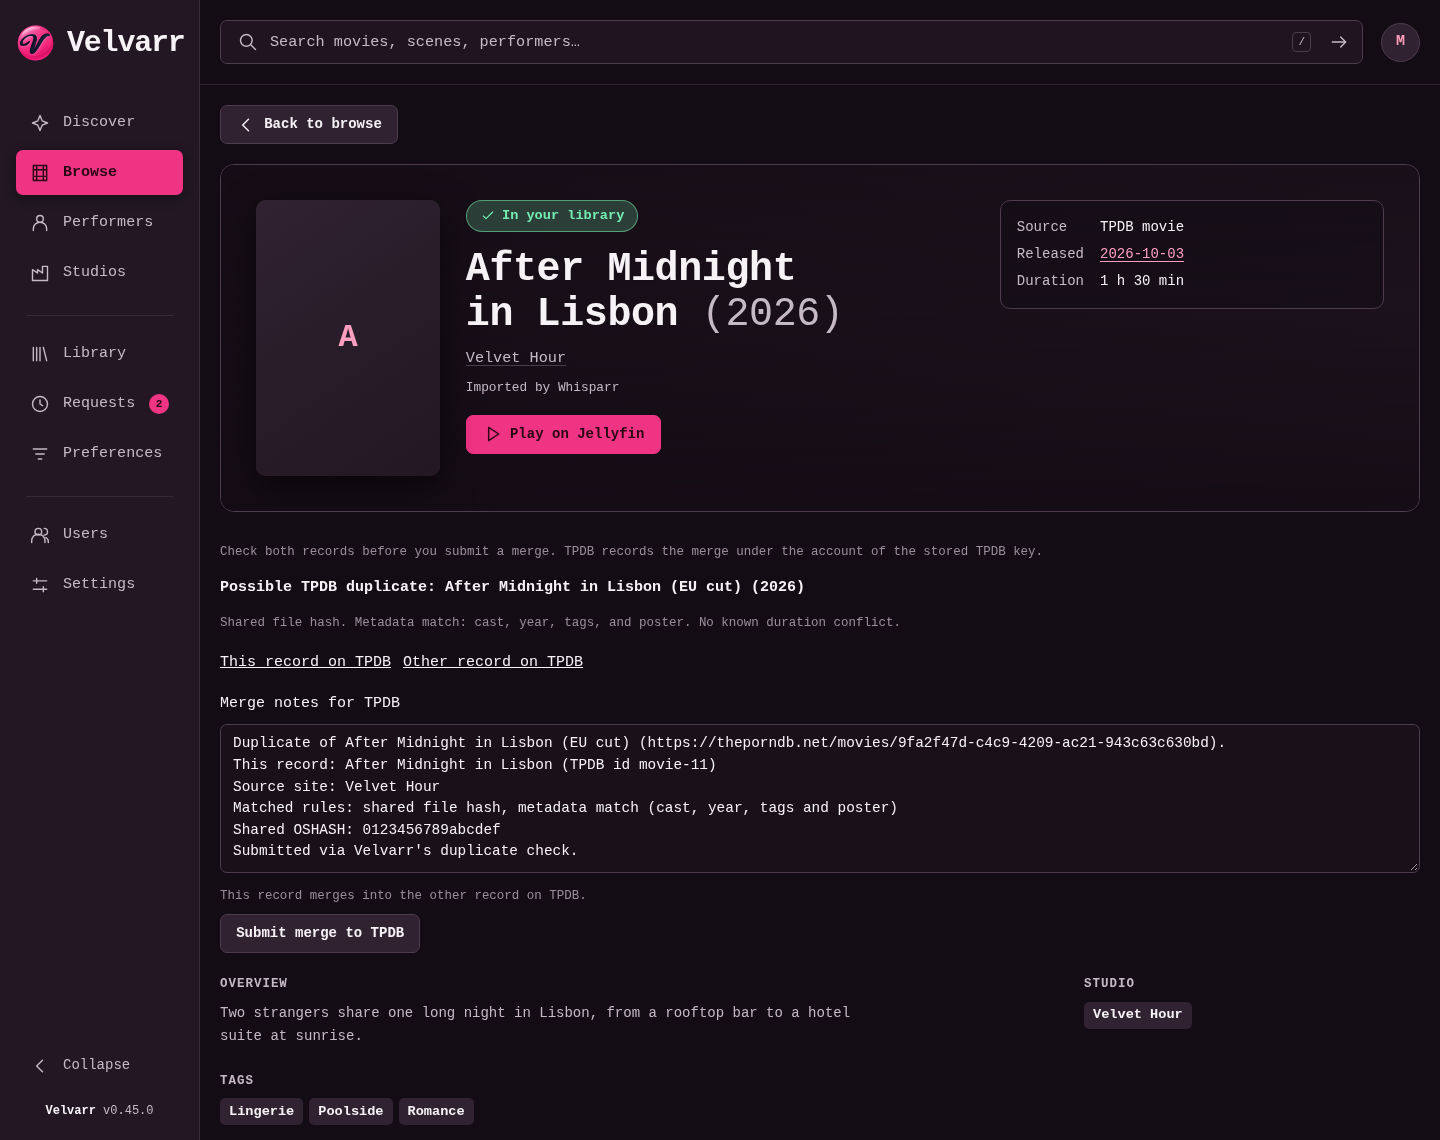
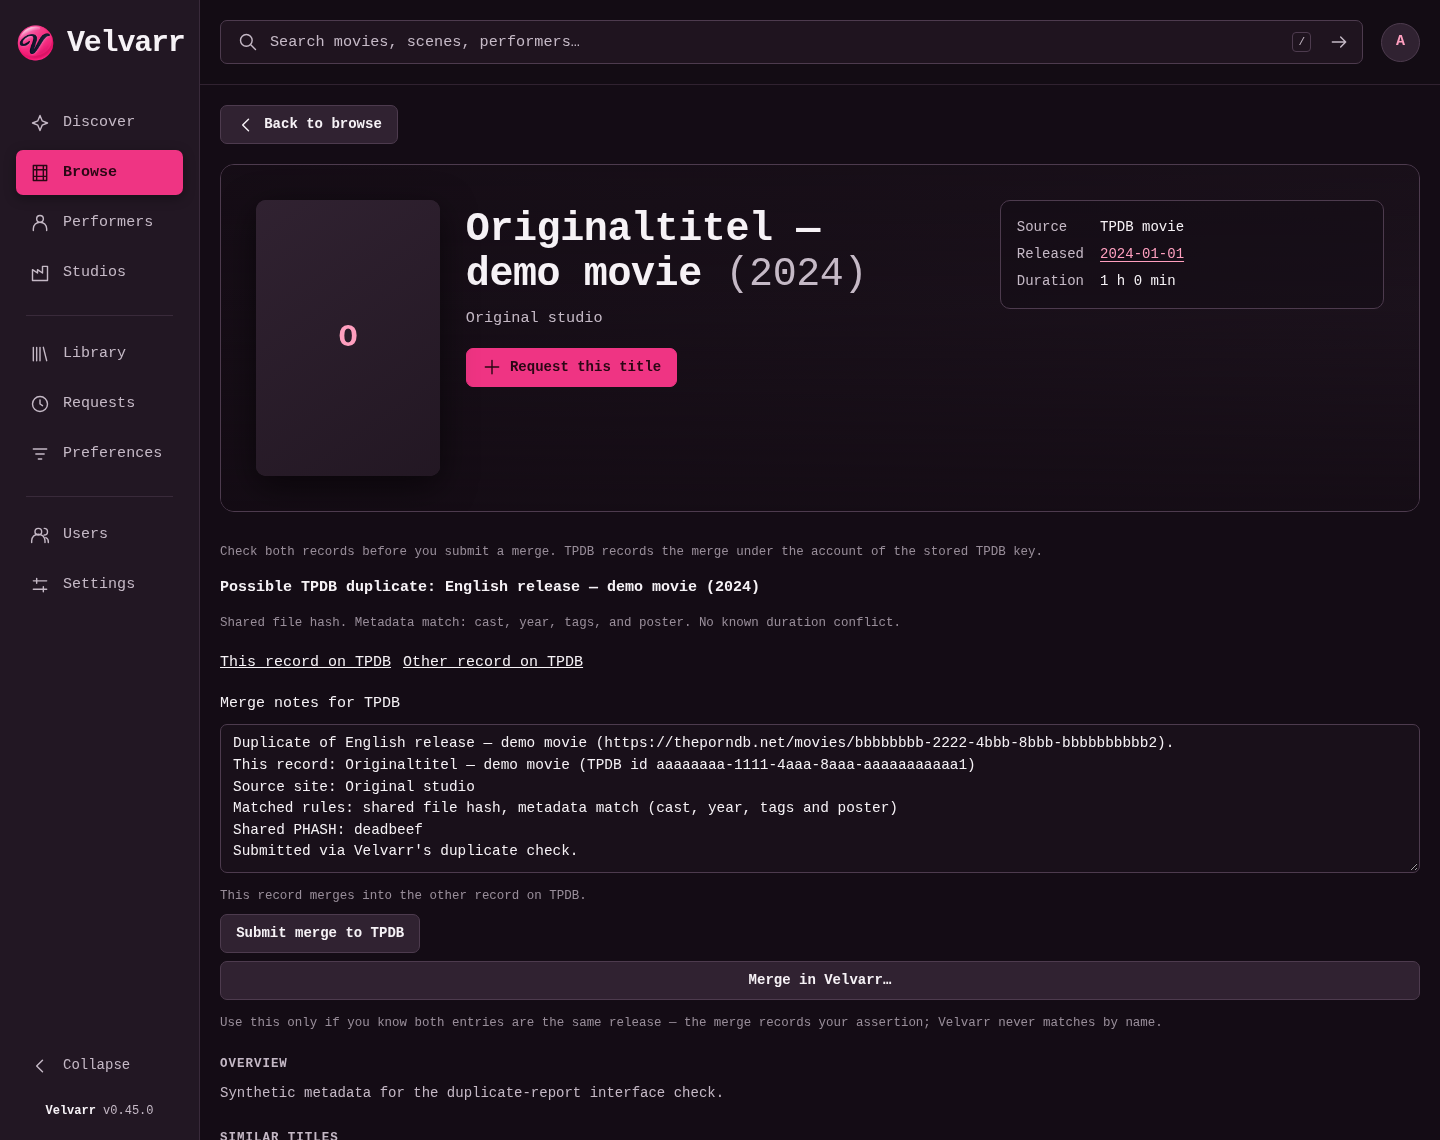
fix(catalog): split the local merge onto its own velvarr-merge endpoint
Main's TPDB merge submission (VELV-288) took POST .../merge for the
admin path, so the Velvarr-wide local merge moves to POST/DELETE
.../velvarr-merge; the duplicate notice, the Merged entries section and
the tests follow. The catalog detail's merged-away resolution and
mergedFromIds naming are restored after the replay, and the README
screenshot now shows both actions side by side.

diff --git a/src/app/api/[...path]/routes/catalog.ts b/src/app/api/[...path]/routes/catalog.ts
@@ -32,7 +32,6 @@ import {
   listFollows,
   getActiveRequest,
   upsertCatalogRecord,
-  getMovieMerge,
   listMovieMergesFor,
 } from "../../../../server/storage.ts";
 import {
@@ -730,13 +729,25 @@ export async function catalogDetail(
   idRaw: string,
 ): Promise<Response> {
   const reference = parseCatalogReference(providerRaw, kindRaw, idRaw);
-  const detail = await getCatalogDetail(reference);
+  // A merged-away TPDB movie id resolves to its primary's detail at read
+  // time; stored rows keep their stored ids, so an undo restores them. One
+  // extra indexed lookup on TPDB movie details only — no extra upstream call.
+  const detailSource = isMediaReference(reference)
+    ? resolveMovieReference(reference)
+    : reference;
+  const detail = await getCatalogDetail(detailSource);
   if (!detail) {
     throw new AppError(
       404,
       "catalog_not_found",
       "This item is not in the provider catalog.",
     );
+  }
+  // Both a swapped merged-away hit and a direct primary hit name the ids
+  // merged into this record, so the page can offer Unmerge.
+  if (reference.provider === "tpdb" && reference.kind === "movie") {
+    const mergedFromIds = listMovieMergesFor(detail.reference.id);
+    if (mergedFromIds.length > 0) detail.mergedFromIds = mergedFromIds;
   }
   const record = upsertCatalogRecord(detail);
   const media: MediaReference | null = isMediaReference(reference)

diff --git a/tests/api.test.ts b/tests/api.test.ts
@@ -5253,13 +5253,13 @@ describe("tpdb movie merge", () => {
     mergedId: string,
     primaryId: string,
   ): Promise<Response> =>
-    call("POST", `/api/catalog/tpdb/movie/${mergedId}/merge`, {
+    call("POST", `/api/catalog/tpdb/movie/${mergedId}/velvarr-merge`, {
       cookie,
       body: { primary: mergeRef(primaryId) },
     });
 
   const unmerge = (cookie: string, mergedId: string): Promise<Response> =>
-    call("DELETE", `/api/catalog/tpdb/movie/${mergedId}/merge`, { cookie });
+    call("DELETE", `/api/catalog/tpdb/movie/${mergedId}/velvarr-merge`, { cookie });
 
   const detailOf = async (
     cookie: string,
@@ -5449,7 +5449,7 @@ describe("tpdb movie merge", () => {
     // the merge rule can name it, so this is the parser's invalid_field.
     const otherProvider = await call(
       "POST",
-      `/api/catalog/tpdb/movie/${TPDB_MERGE_A}/merge`,
+      `/api/catalog/tpdb/movie/${TPDB_MERGE_A}/velvarr-merge`,
       {
         cookie: admin,
         body: {
@@ -5462,7 +5462,7 @@ describe("tpdb movie merge", () => {
     // A well-formed media ref that is not a tpdb movie names the merge rule.
     const otherKind = await call(
       "POST",
-      `/api/catalog/tpdb/movie/${TPDB_MERGE_A}/merge`,
+      `/api/catalog/tpdb/movie/${TPDB_MERGE_A}/velvarr-merge`,
       {
         cookie: admin,
         body: { primary: { provider: "tpdb", kind: "scene", id: TPDB_MOVIE2 } },
